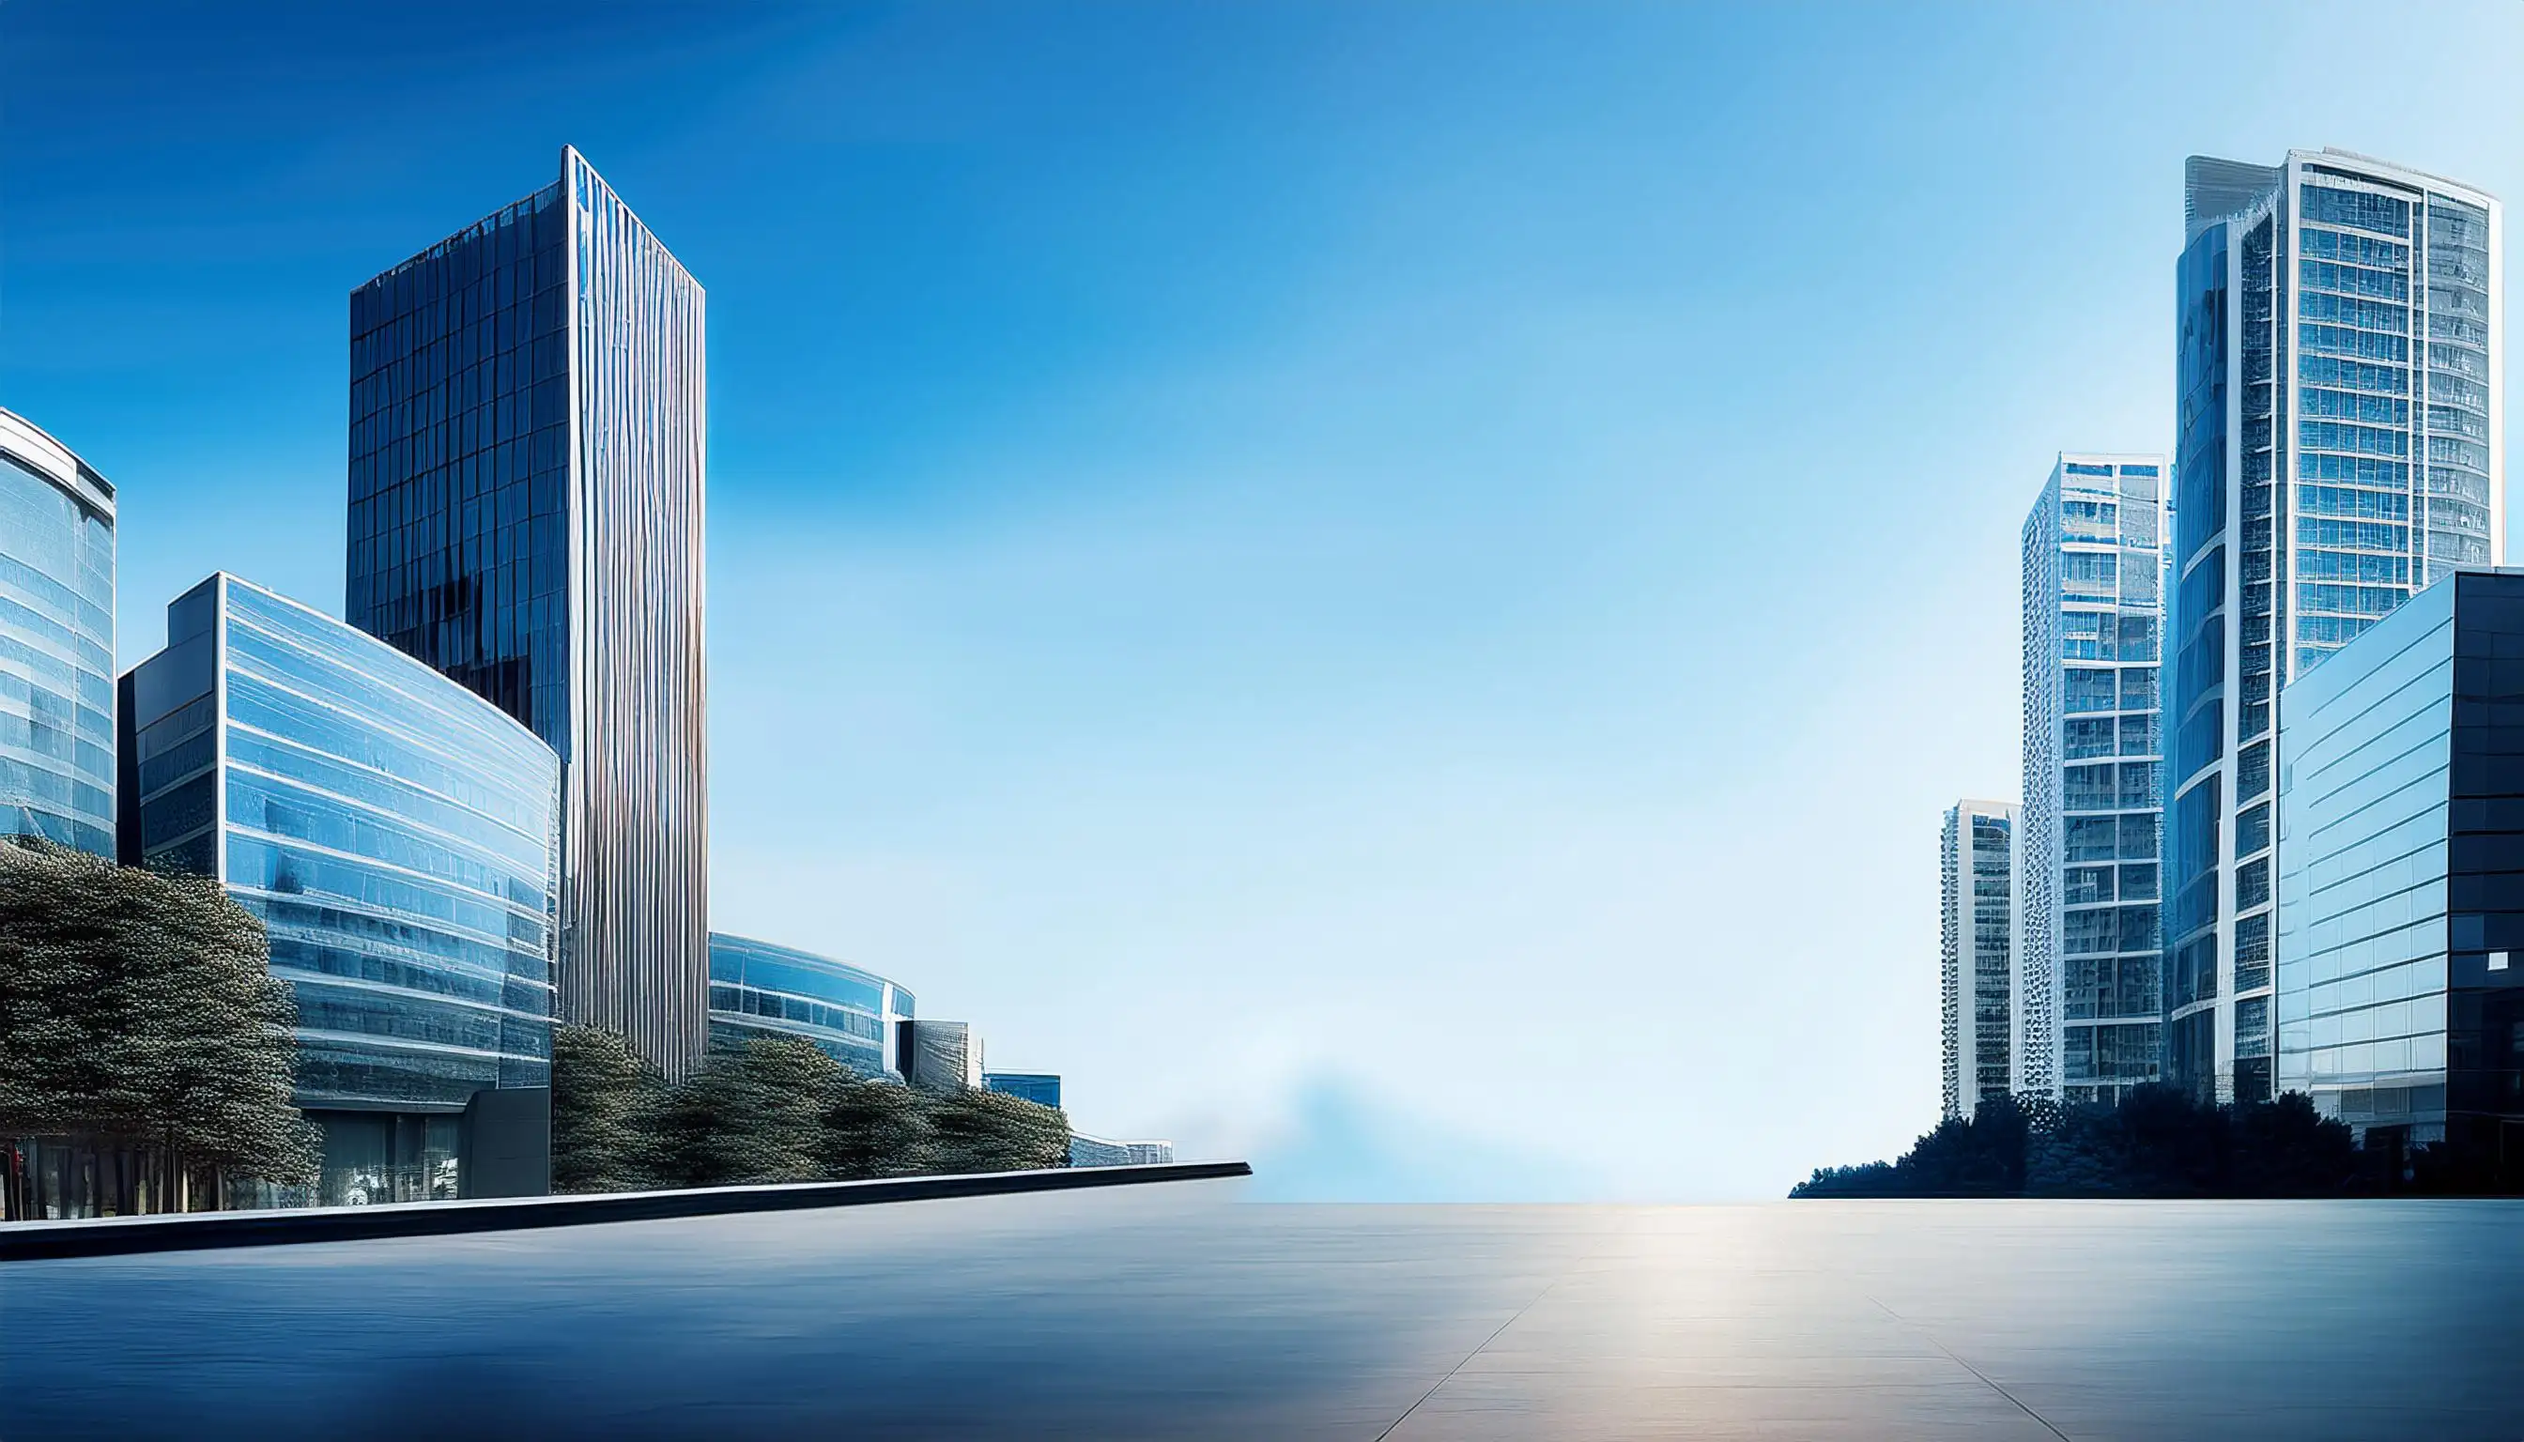
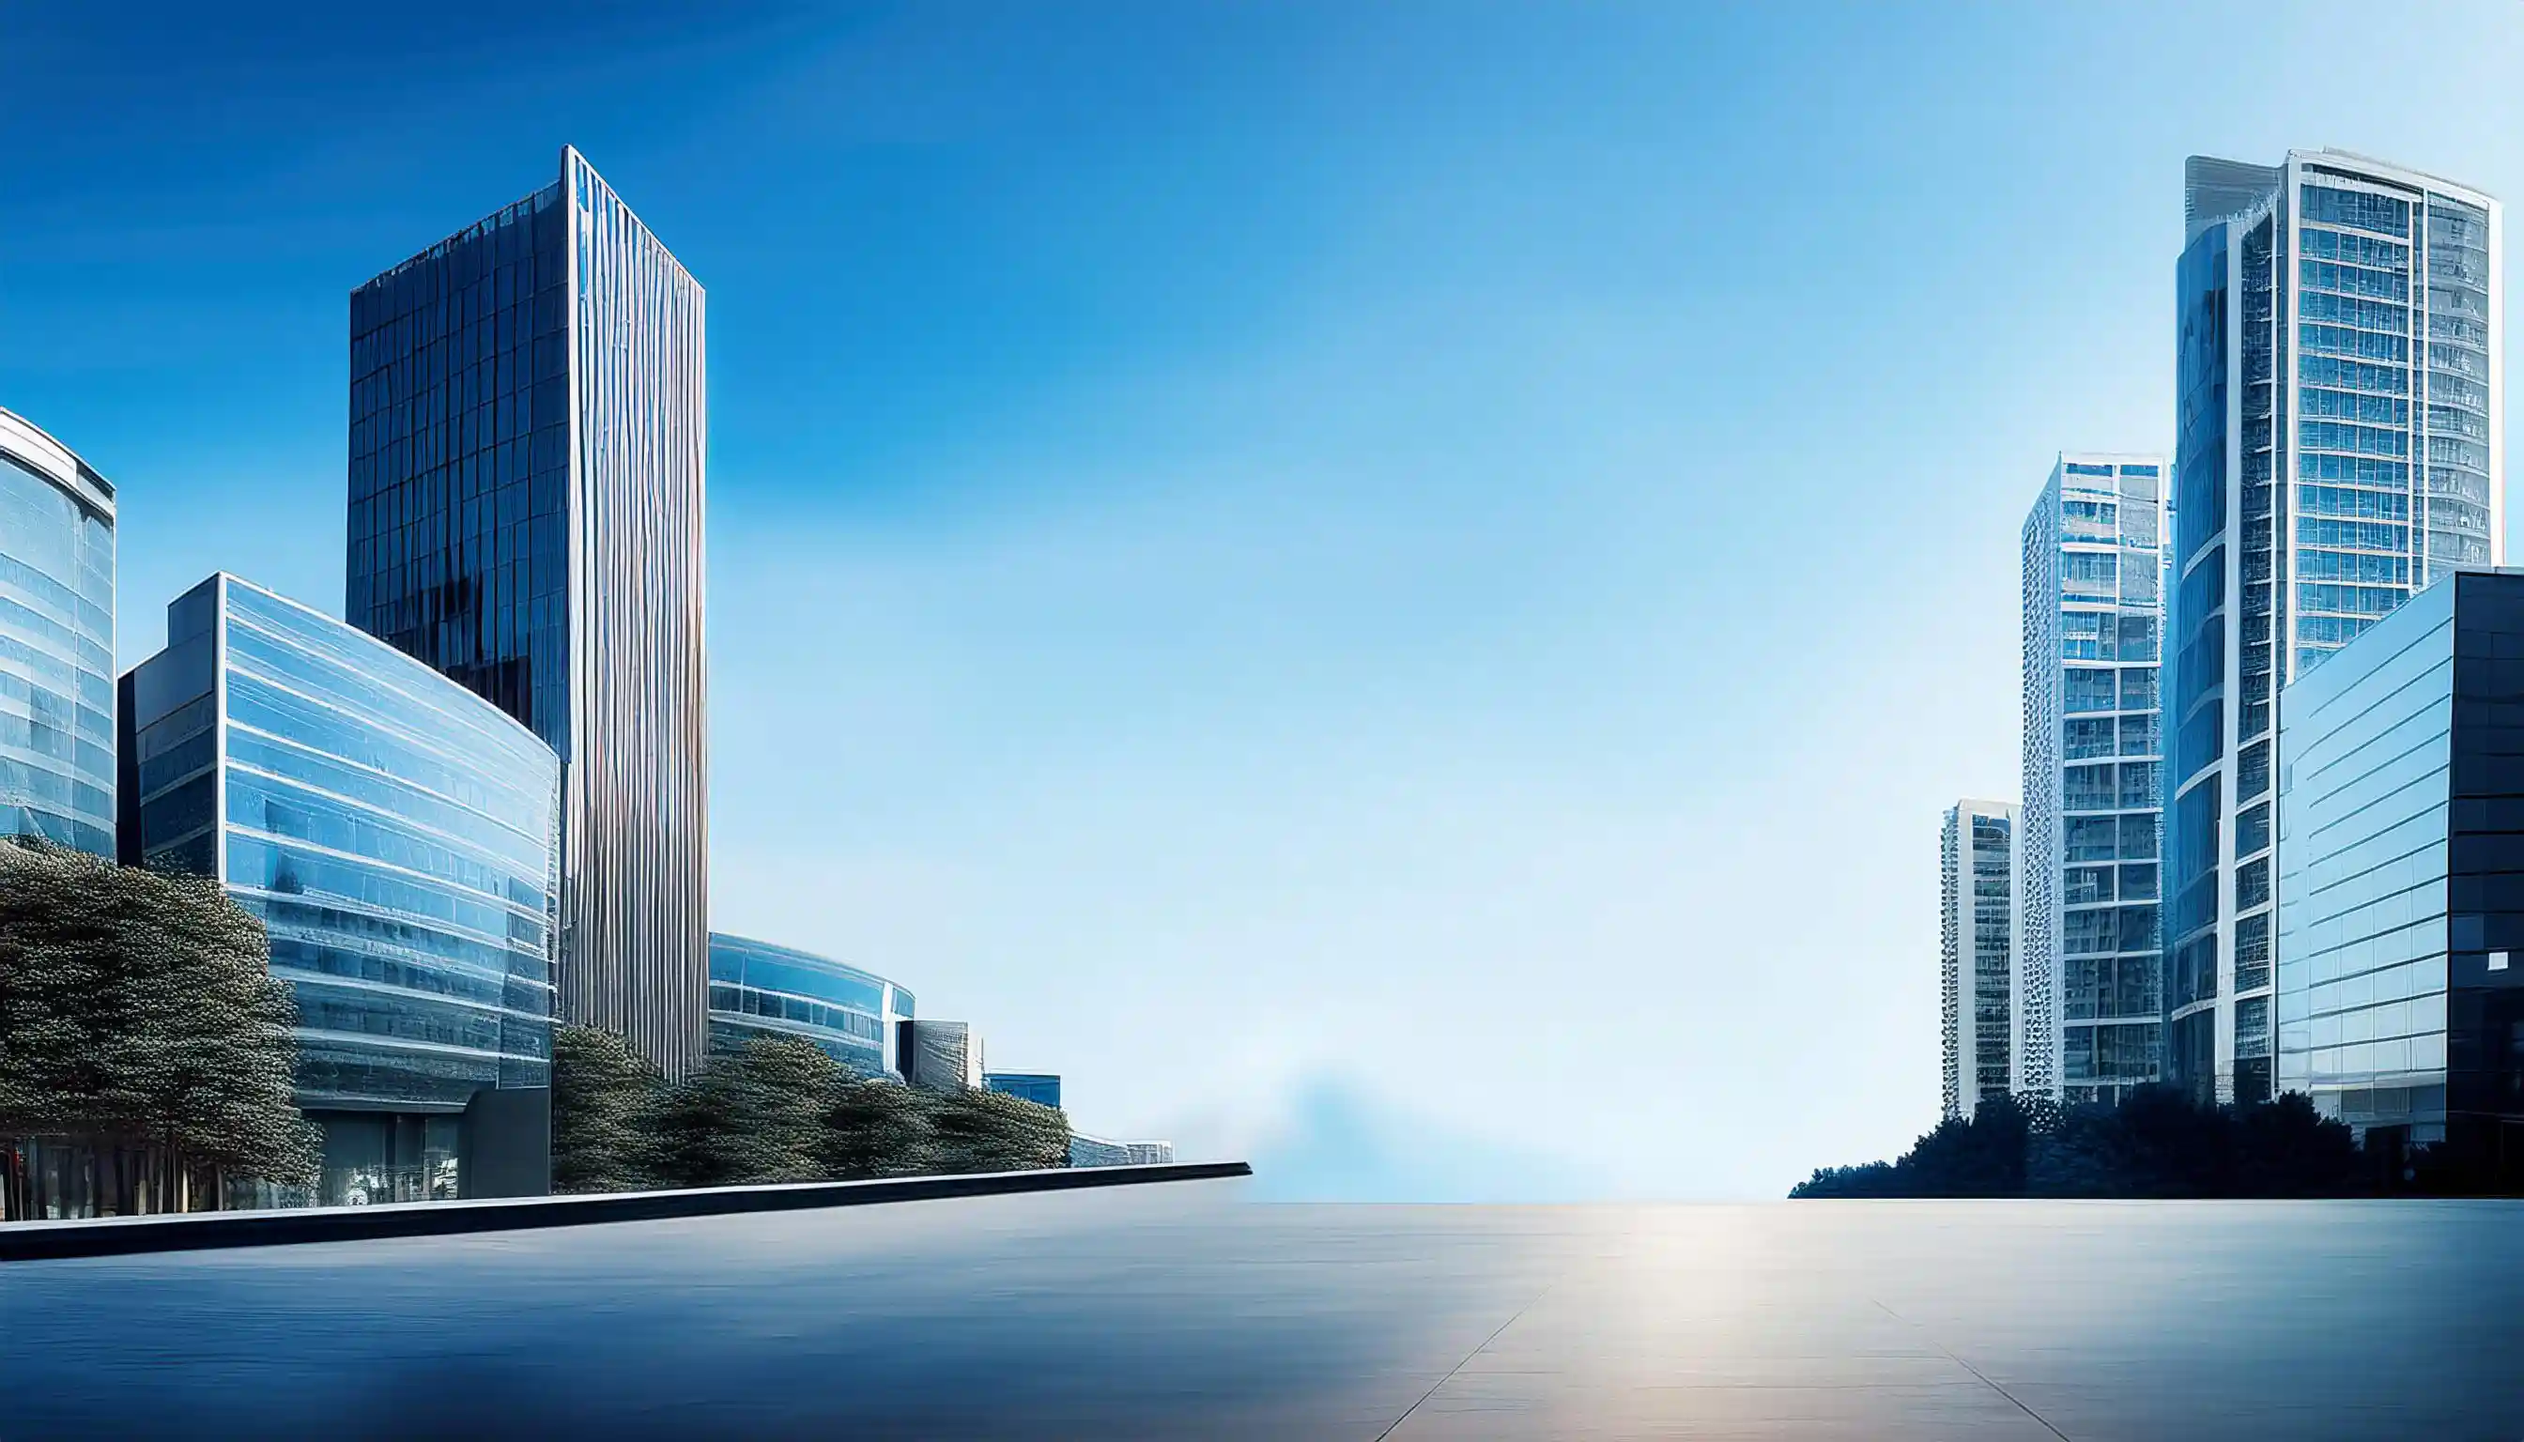
img optimized

diff --git a/src/Components/HomepageHero2/style.module.scss b/src/Components/HomepageHero2/style.module.scss
@@ -11,7 +11,8 @@
     ),
     // url("https://as2.ftcdn.net/v2/jpg/10/04/94/55/1000_F_1004945569_xJKKQZvqLrUkereHzNAfhdZB4qZpMk0U.jpg");
     // url("https://as2.ftcdn.net/v2/jpg/10/42/63/21/1000_F_1042632123_LVX247KXIpYcVHvuz82iOWQEWpzG9C9p.jpg");
-    url("/assets/homepage/homepage-hero.webp");
+    // url("/assets/homepage/homepage-hero.webp");
+    url("https://uploads.pixecurity.com/files/Firefly_0cad4171-350e-45f6-86d4-58809ff432e9.webp");
   // url("/assets/test9.jpeg");
   // url("/assets/test4.jpeg");
   background-size: cover;

diff --git a/src/templates/Expertise/style.module.scss b/src/templates/Expertise/style.module.scss
@@ -11,7 +11,8 @@
         50%,
         rgba(122, 122, 122, 0) 70%
       ),
-      url("/assets/expertise/expert-back.jpg");
+      // url("/assets/expertise/expertise.webp");
+      url("https://uploads.pixecurity.com/files/expertise.webp");
     // background-repeat: no-repeat;
     // background-size: cover;
     background-position: top;
